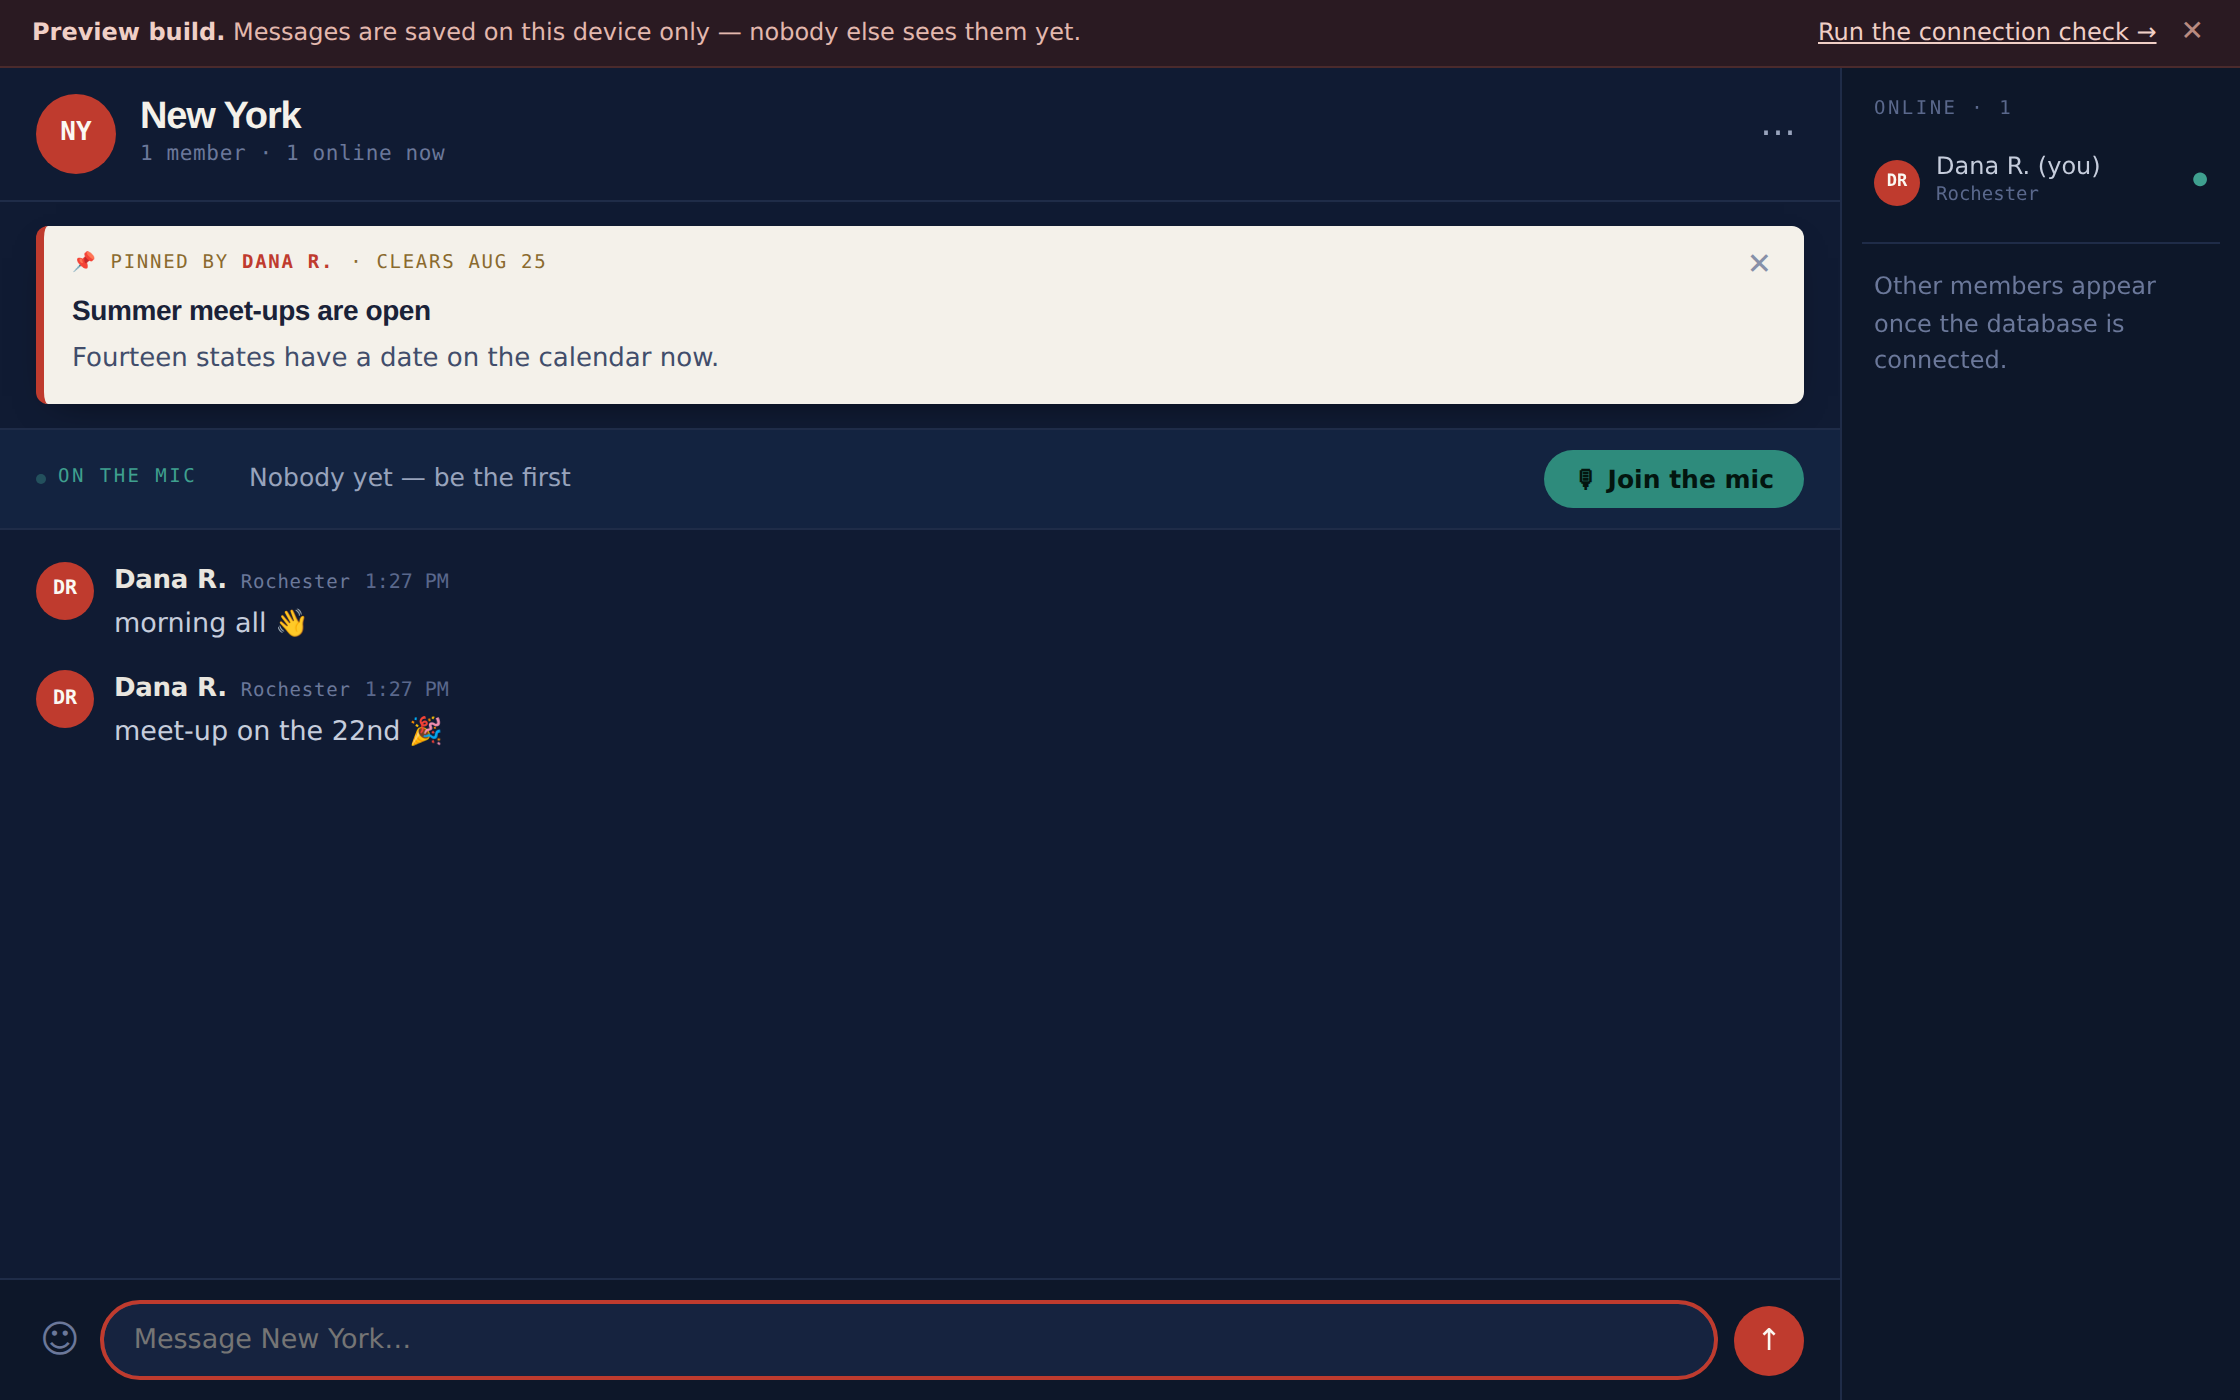
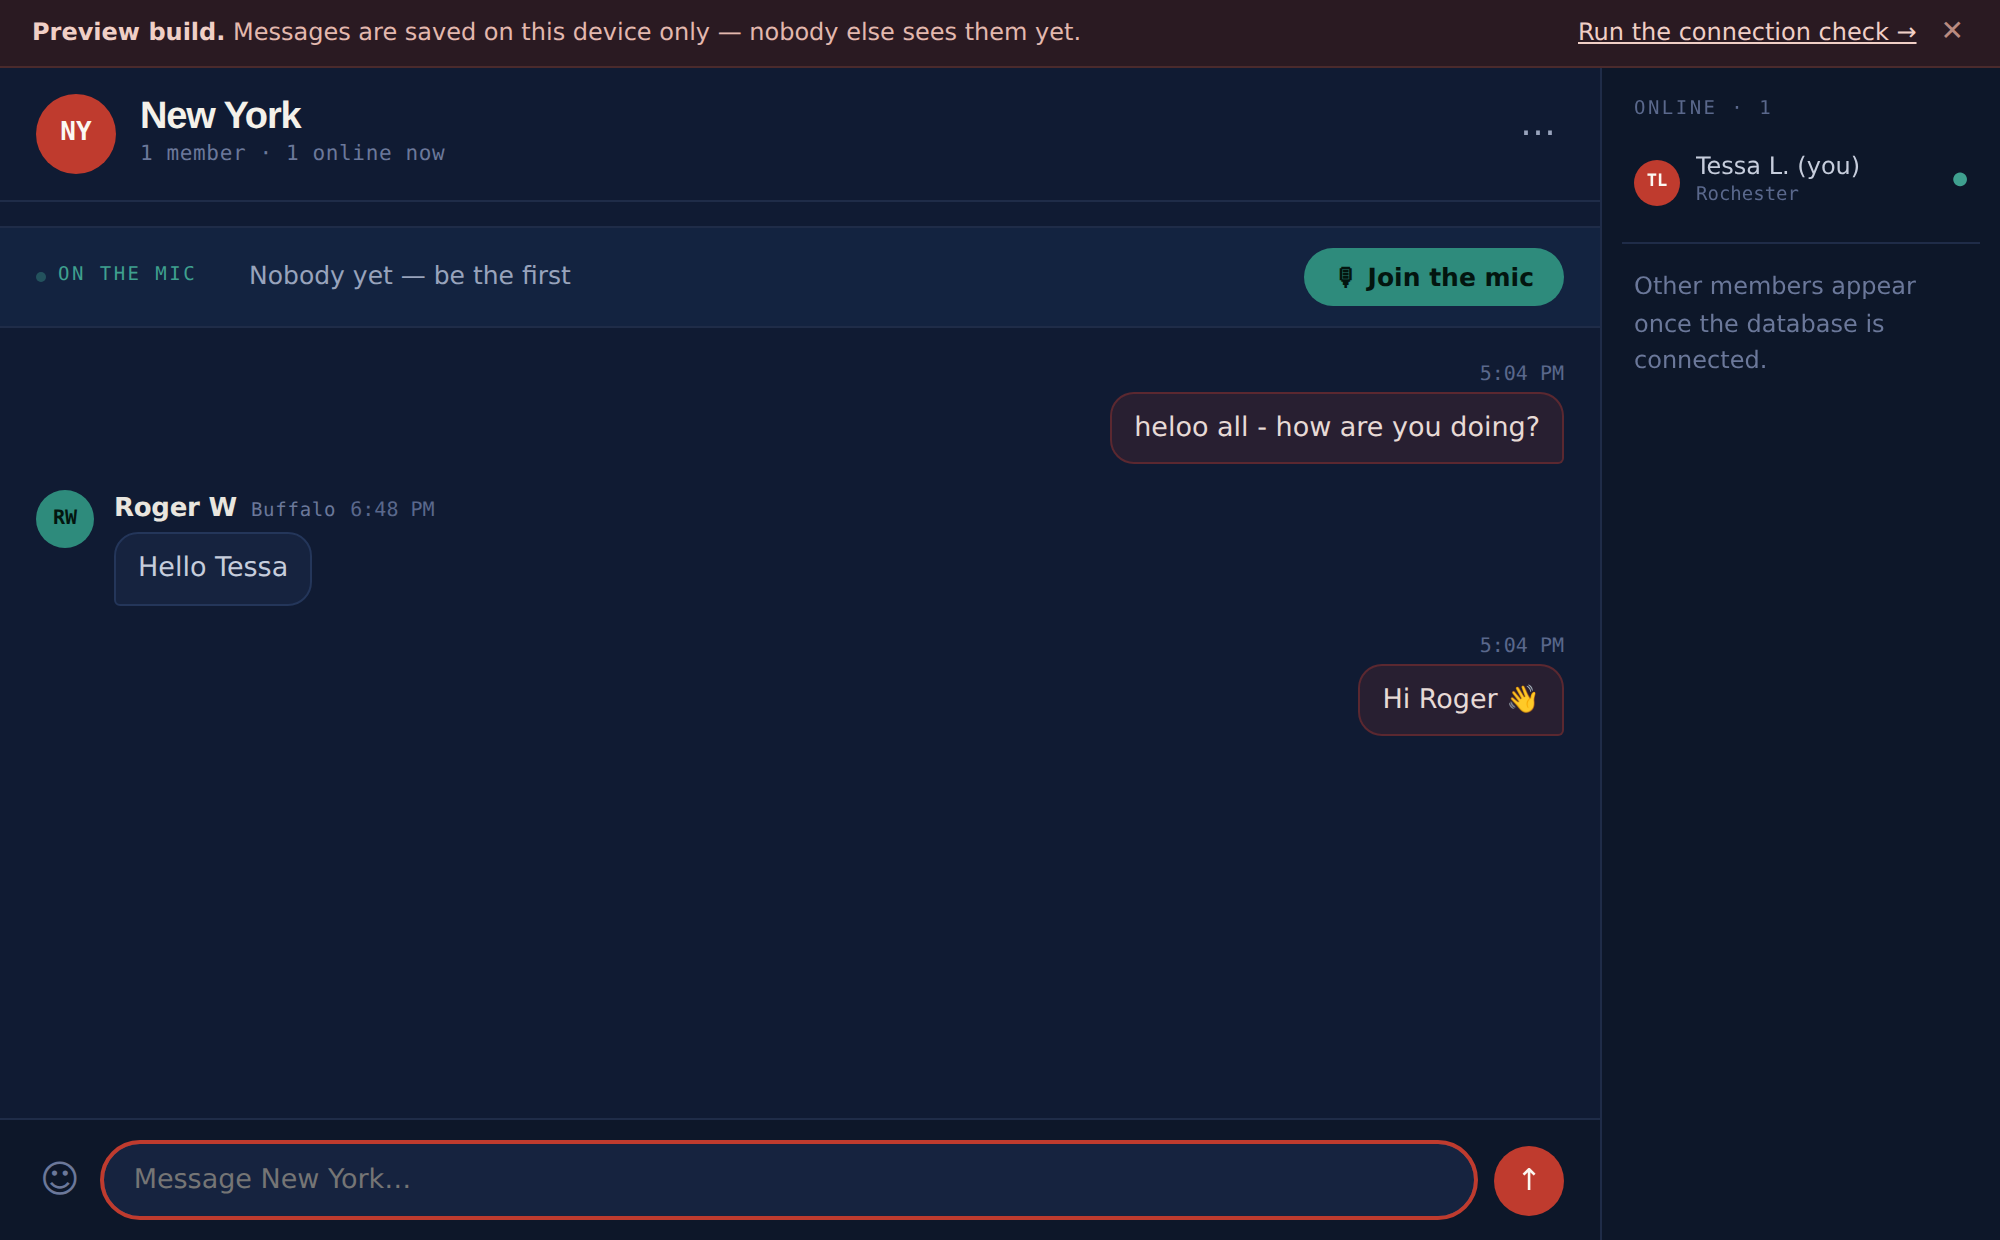
Put your own messages on the right
Yours sit right-aligned in the app's red, everyone else's stay left in
neutral, so a glance separates the two halves of a conversation. Your own
messages drop the name, city and avatar — the side of the screen already
says who wrote them, and repeating your own name on every line is noise.

Claude-Session: https://claude.ai/code/session_01Dn3QxfasG2xg4YTEG3iPH6

diff --git a/app.js b/app.js
@@ -296,19 +296,29 @@
 
   /* ── chat ────────────────────────────────────────────────────── */
   function messageEl(m) {
-    var wrap = document.createElement('div'); wrap.className = 'm';
-    var av = document.createElement('span'); av.className = 'av sm';
-    avatar(av, m);
+    var wrap = document.createElement('div'); wrap.className = 'm' + (m.mine ? ' mine' : '');
     var b = document.createElement('div'); b.className = 'b';
     var h = document.createElement('div'); h.className = 'h';
-    var who = document.createElement('span'); who.className = 'who'; who.textContent = m.name;
-    h.appendChild(who);
-    if (m.city) { var cy = document.createElement('span'); cy.className = 'cy'; cy.textContent = m.city; h.appendChild(cy); }
+
+    /* Your own messages carry only a time. The side of the screen already
+       says who wrote them, and your name on every line is just noise. */
+    if (!m.mine) {
+      var who = document.createElement('span'); who.className = 'who'; who.textContent = m.name;
+      h.appendChild(who);
+      if (m.city) { var cy = document.createElement('span'); cy.className = 'cy'; cy.textContent = m.city; h.appendChild(cy); }
+    }
     var tm = document.createElement('span'); tm.className = 'tm'; tm.textContent = clock(m.ts);
     h.appendChild(tm);
+
     var tx = document.createElement('div'); tx.className = 'tx'; tx.textContent = m.text;
     b.appendChild(h); b.appendChild(tx);
-    wrap.appendChild(av); wrap.appendChild(b);
+
+    if (!m.mine) {
+      var av = document.createElement('span'); av.className = 'av sm';
+      avatar(av, m);
+      wrap.appendChild(av);
+    }
+    wrap.appendChild(b);
     return wrap;
   }
 
@@ -349,7 +359,7 @@
     i.value = '';
     var msg = {
       name: me.name, city: me.city, photo: me.photo,
-      bg: me.bg, fg: me.fg, text: text, ts: Date.now()
+      bg: me.bg, fg: me.fg, text: text, ts: Date.now(), mine: true
     };
     appendMessage(msg);                          // show it immediately
     $('chat').scrollTop = $('chat').scrollHeight;

diff --git a/app.css b/app.css
@@ -179,7 +179,17 @@ button,input,select,textarea{font-family:inherit}
 .m .who{font-size:13px;font-weight:700;color:var(--text);letter-spacing:-.01em}
 .m .cy{font-family:var(--mono);font-size:9.5px;color:var(--faint);letter-spacing:.04em}
 .m .tm{font-family:var(--mono);font-size:10px;color:var(--faint2);font-variant-numeric:tabular-nums}
-.m .tx{font-size:13.5px;color:#C6CDDC;line-height:1.5;overflow-wrap:anywhere;white-space:pre-wrap}
+.m .tx{font-size:13.5px;color:#C6CDDC;line-height:1.5;overflow-wrap:anywhere;white-space:pre-wrap;
+  background:var(--panel);border:1px solid var(--edge);border-radius:12px 12px 12px 3px;
+  padding:7px 11px;display:inline-block;max-width:min(88%,560px);text-align:left}
+
+/* Your own messages come back down the right-hand side, in the app's own
+   red, so a glance tells you which half of the conversation is yours. */
+.m.mine{justify-content:flex-end}
+.m.mine .h{justify-content:flex-end}
+.m.mine .b{text-align:right}
+.m.mine .tx{background:rgba(191,59,46,.14);border-color:rgba(191,59,46,.34);color:#E7DAD6;
+  border-radius:12px 12px 3px 12px}
 .sys{font-family:var(--mono);font-size:10.5px;color:var(--faint2);text-align:center;padding:2px 0}
 .sys.pin{color:var(--gold)}
 /* ⋯ menu in the room header */

diff --git a/db.js b/db.js
@@ -46,7 +46,12 @@
 
     signOut: function () { put('profile', null); return Promise.resolve(); },
 
-    messages: function (room) { return Promise.resolve(get('msgs.' + room, [])); },
+    /* Nobody else exists in preview mode, so every message is yours. */
+    messages: function (room) {
+      return Promise.resolve(get('msgs.' + room, []).map(function (m) {
+        m.mine = true; return m;
+      }));
+    },
 
     send: function (room, msg) {
       var all = get('msgs.' + room, []);
@@ -96,6 +101,7 @@
         fg: (who && who.fg) || r.fg,
         photo: (who && who.photo) || r.photo,
         text: r.body,
+        mine: r.author === uid,
         ts: new Date(r.created_at).getTime()
       };
     }
